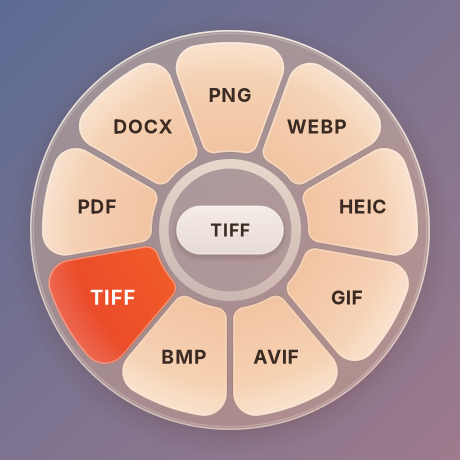
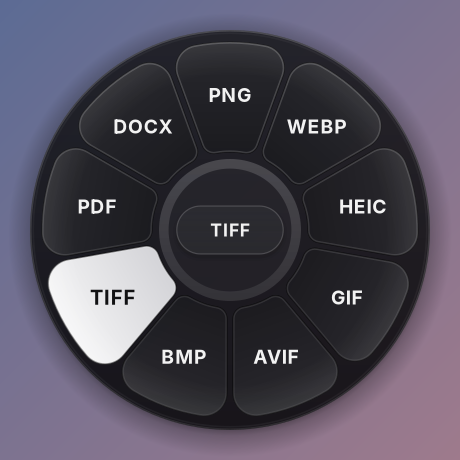
Ring: black smoked glass with monochrome hover
New default SMOKE palette (graphite petals, light labels, bright
white-grey hover, white progress arc); same layout. All ring colours
now live in Palette; RINGCONVERT_THEME=warm keeps the old look
unchanged and replaces the DARK/system option. README pictures
regenerated. Drop an unused Gdk import in the crop dialog.

diff --git a/src/ringconvert/ring_widget.py b/src/ringconvert/ring_widget.py
@@ -47,18 +47,48 @@ class Palette:
     segment_highlight: RGBA
     segment_alpha: float
     segment_edge: RGBA
+    segment_glint_top: RGBA  # bright inner hairline of a petal, top and bottom of the ring
+    segment_glint_bottom: RGBA
     text: RGBA
     hover_start: RGBA
     hover_end: RGBA
     hover_text: RGBA
+    hover_highlight: RGBA  # sheen on the hovered petal (the pulse adds to its alpha)
     hub_fill: RGBA
     hub_border: RGBA
     pill_fill: RGBA
+    pill_edge: RGBA
     pill_text: RGBA
     progress: RGBA
 
 
-# The default look: milky glass, cream-peach petals, orange-red hover.
+# The default look: black smoked glass, graphite petals, bright glass on hover.
+SMOKE = Palette(
+    disc_top=(0.08, 0.08, 0.09, 0.84),
+    disc_bottom=(0.03, 0.03, 0.04, 0.88),
+    disc_border=(1.0, 1.0, 1.0, 0.18),
+    shadow=(0.0, 0.0, 0.0, 0.45),
+    segment_top=hex_rgba("#2a2a2e"),
+    segment_bottom=hex_rgba("#1b1b1f"),
+    segment_highlight=(1.0, 1.0, 1.0, 0.08),
+    segment_alpha=0.92,
+    segment_edge=(0.0, 0.0, 0.0, 0.55),
+    segment_glint_top=(1.0, 1.0, 1.0, 0.22),
+    segment_glint_bottom=(1.0, 1.0, 1.0, 0.07),
+    text=hex_rgba("#f2f2f2"),
+    hover_start=hex_rgba("#f4f4f5"),
+    hover_end=hex_rgba("#d4d4d8"),
+    hover_text=hex_rgba("#111113"),
+    hover_highlight=(1.0, 1.0, 1.0, 0.30),
+    hub_fill=(1.0, 1.0, 1.0, 0.03),
+    hub_border=(1.0, 1.0, 1.0, 0.16),
+    pill_fill=(0.17, 0.17, 0.19, 0.92),
+    pill_edge=(1.0, 1.0, 1.0, 0.18),
+    pill_text=hex_rgba("#f2f2f2"),
+    progress=(1.0, 1.0, 1.0, 0.95),
+)
+
+# The original look (RINGCONVERT_THEME=warm): milky glass, cream-peach petals, orange-red hover.
 WARM = Palette(
     disc_top=(0.95, 0.80, 0.64, 0.40),
     disc_bottom=(0.90, 0.70, 0.55, 0.36),
@@ -69,37 +99,19 @@ WARM = Palette(
     segment_highlight=(1.0, 1.0, 1.0, 0.30),
     segment_alpha=0.95,
     segment_edge=(0.55, 0.30, 0.12, 0.22),
+    segment_glint_top=(1.0, 1.0, 1.0, 0.55),
+    segment_glint_bottom=(1.0, 1.0, 1.0, 0.25),
     text=hex_rgba("#3a2a22"),
     hover_start=hex_rgba("#e8462a"),
     hover_end=hex_rgba("#f05a28"),
     hover_text=(1.0, 1.0, 1.0, 1.0),
+    hover_highlight=(1.0, 1.0, 1.0, 0.18),
     hub_fill=(1.0, 0.96, 0.90, 0.08),
     hub_border=(1.0, 0.95, 0.88, 0.70),
     pill_fill=(1.0, 0.97, 0.94, 0.82),
+    pill_edge=(1.0, 1.0, 1.0, 0.7 * 0.82),
     pill_text=hex_rgba("#3a2a22"),
     progress=hex_rgba("#e8462a"),
-)
-
-# Dark-mode variant (opt-in via RINGCONVERT_THEME=system): same warmth, smoked glass.
-DARK = Palette(
-    disc_top=(0.20, 0.15, 0.13, 0.62),
-    disc_bottom=(0.14, 0.10, 0.09, 0.56),
-    disc_border=(1.0, 0.85, 0.75, 0.28),
-    shadow=(0.0, 0.0, 0.0, 0.40),
-    segment_top=hex_rgba("#5a4135"),
-    segment_bottom=hex_rgba("#4a342a"),
-    segment_highlight=(1.0, 0.85, 0.75, 0.22),
-    segment_alpha=0.92,
-    segment_edge=(0.0, 0.0, 0.0, 0.30),
-    text=hex_rgba("#f6d2b8"),
-    hover_start=hex_rgba("#e8462a"),
-    hover_end=hex_rgba("#f05a28"),
-    hover_text=(1.0, 1.0, 1.0, 1.0),
-    hub_fill=(1.0, 0.85, 0.75, 0.06),
-    hub_border=(1.0, 0.85, 0.75, 0.30),
-    pill_fill=(0.30, 0.22, 0.19, 0.85),
-    pill_text=hex_rgba("#f6d2b8"),
-    progress=hex_rgba("#f05a28"),
 )
 
 FONT_FAMILY = "Adwaita Sans, Cantarell, Inter, Noto Sans, sans-serif"
@@ -204,7 +216,7 @@ class RingState:
 
 
 class RingPainter:
-    def __init__(self, geometry: Geometry | None = None, palette: Palette = WARM):
+    def __init__(self, geometry: Geometry | None = None, palette: Palette = SMOKE):
         self.geo = geometry or Geometry()
         self.palette = palette
 
@@ -275,8 +287,8 @@ class RingPainter:
         cr.clip_preserve()
         cr.set_line_width(max(2.0, g.radius * 0.016))
         edge = cairo.LinearGradient(cx, cy - g.outer, cx, cy + g.outer)
-        edge.add_color_stop_rgba(0, 1, 1, 1, 0.55)
-        edge.add_color_stop_rgba(1, 1, 1, 1, 0.25)
+        edge.add_color_stop_rgba(0, *self.palette.segment_glint_top)
+        edge.add_color_stop_rgba(1, *self.palette.segment_glint_bottom)
         cr.set_source(edge)
         cr.stroke()
         cr.restore()
@@ -409,7 +421,8 @@ class RingPainter:
 
         if h > 0:
             cr.push_group()
-            self._fill_segment(cr, count, i, p.hover_start, p.hover_end, (1, 1, 1, 0.18 + 0.3 * pulse))
+            sheen = p.hover_highlight[:3] + (p.hover_highlight[3] + 0.3 * pulse,)
+            self._fill_segment(cr, count, i, p.hover_start, p.hover_end, sheen)
             cr.pop_group_to_source()
             cr.paint_with_alpha(h)
 
@@ -488,7 +501,7 @@ class RingPainter:
         sheen.add_color_stop_rgba(1, *p.pill_fill[:3], p.pill_fill[3] - 0.08)
         cr.set_source(sheen)
         cr.fill_preserve()
-        cr.set_source_rgba(1, 1, 1, 0.7 * p.pill_fill[3])
+        cr.set_source_rgba(*p.pill_edge)
         cr.set_line_width(max(1.0, g.radius * 0.006))
         cr.stroke()
         layout.set_width(int((width - height * 0.5) * Pango.SCALE))

diff --git a/tests/test_ring.py b/tests/test_ring.py
@@ -38,13 +38,12 @@ def test_gaps_belong_to_a_segment():
     assert geo.hit(*point(geo, -90 + 22.5, geo.label_radius), 8) in (0, 1)
 
 
-def test_render_hover_is_orange(tmp_path):
+def _render_pixels(tmp_path, palette):
     segs = [Segment(k, k.upper()) for k in ("png", "webp", "heic", "gif")]
     state = RingState(segments=segs, hover=[0, 1, 0, 0], readout="WEBP")
     out = tmp_path / "ring.png"
-    ring_widget.render_png(str(out), state)
+    ring_widget.render_png(str(out), state, ring_widget.RingPainter(palette=palette))
     surface = cairo.ImageSurface.create_from_png(str(out))
-    geo = Geometry()
     data, stride = surface.get_data(), surface.get_stride()
 
     def pixel(x, y):  # premultiplied BGRA
@@ -52,14 +51,40 @@ def test_render_hover_is_orange(tmp_path):
         b, g, r, a = data[i:i + 4]
         return r, g, b, a
 
-    # Inside the hovered (right-hand) petal, away from its label.
-    r, g, b, a = pixel(*point(geo, 0, geo.outer - geo.radius * 0.08))
+    geo = Geometry()
+    # Inside the hovered (right-hand) petal and a resting one, away from their labels.
+    hovered = pixel(*point(geo, 0, geo.outer - geo.radius * 0.08))
+    resting = pixel(*point(geo, 180, geo.outer - geo.radius * 0.08))
+    return hovered, resting, pixel(1, 1)
+
+
+def test_render_smoke_is_black_with_bright_hover(tmp_path):
+    hovered, resting, corner = _render_pixels(tmp_path, ring_widget.SMOKE)
+    r, g, b, a = hovered
+    assert min(r, g, b) > 200 and max(r, g, b) - min(r, g, b) < 12 and a > 240
+    r, g, b, a = resting
+    assert max(r, g, b) < 70 and max(r, g, b) - min(r, g, b) < 12 and a > 230
+    # Corners of the window stay fully transparent.
+    assert corner[3] == 0
+
+
+def test_render_warm_hover_is_orange(tmp_path):
+    hovered, resting, corner = _render_pixels(tmp_path, ring_widget.WARM)
+    r, g, b, a = hovered
     assert r > 200 and g < 120 and b < 80 and a > 240
     # A resting petal is light peach.
-    r, g, b, a = pixel(*point(geo, 180, geo.outer - geo.radius * 0.08))
+    r, g, b, a = resting
     assert r > 180 and g > 150 and b > 120
-    # Corners of the window stay fully transparent.
-    assert pixel(1, 1)[3] == 0
+    assert corner[3] == 0
+
+
+def test_default_palette_is_smoke(monkeypatch):
+    ring_window = pytest.importorskip("ringconvert.ring_window")
+    monkeypatch.delenv("RINGCONVERT_THEME", raising=False)
+    assert ring_window._palette() is ring_widget.SMOKE
+    assert ring_widget.RingPainter().palette is ring_widget.SMOKE
+    monkeypatch.setenv("RINGCONVERT_THEME", "warm")
+    assert ring_window._palette() is ring_widget.WARM
 
 
 def test_tool_icons_render(tmp_path):

diff --git a/src/ringconvert/ring_window.py b/src/ringconvert/ring_window.py
@@ -9,17 +9,16 @@ from pathlib import Path
 import cairo
 import gi
 
-gi.require_version("Adw", "1")
 gi.require_version("Gdk", "4.0")
 gi.require_version("Gtk", "4.0")
-from gi.repository import Adw, Gdk, Gio, GLib, GObject, Gtk  # noqa: E402
+from gi.repository import Gdk, Gio, GLib, GObject, Gtk  # noqa: E402
 
 from .core import compress  # noqa: E402
 from .core.detect import ALL_TOOLS, FileInfo, common_targets, common_tools, detect, label  # noqa: E402
 from .core.naming import Result  # noqa: E402
 from .debug import debug  # noqa: E402
 from .dialogs import DIALOGS  # noqa: E402
-from .ring_widget import DARK, WARM, RingPainter, RingWidget, Segment  # noqa: E402
+from .ring_widget import SMOKE, WARM, RingPainter, RingWidget, Segment  # noqa: E402
 
 # Detecting a huge selection would stall the drag; the menu only needs a sample.
 MAX_DETECT = 200
@@ -59,11 +58,10 @@ def _file_list(value) -> list[Gio.File] | None:
 
 
 def _palette():
-    # The warm look is the default even in dark mode;
-    # RINGCONVERT_THEME=system follows the desktop's light/dark preference.
-    if os.environ.get("RINGCONVERT_THEME") == "system" and Adw.StyleManager.get_default().get_dark():
-        return DARK
-    return WARM
+    # Black smoked glass in light and dark mode; RINGCONVERT_THEME=warm brings back the peach look.
+    if os.environ.get("RINGCONVERT_THEME") == "warm":
+        return WARM
+    return SMOKE
 
 
 class RingWindow(Gtk.Window):

diff --git a/src/ringconvert/dialogs/crop.py b/src/ringconvert/dialogs/crop.py
@@ -11,7 +11,7 @@ import cairo
 import gi
 
 gi.require_version("Gtk", "4.0")
-from gi.repository import Gdk, Gtk  # noqa: E402
+from gi.repository import Gtk  # noqa: E402
 
 from ..core import imageops  # noqa: E402
 from . import Segmented, ToolDialog, preview_copy, row, to_surface  # noqa: E402

diff --git a/README.md b/README.md
@@ -167,8 +167,8 @@ ringconvert --quit     # stop the background service
   AVIF loses transparency.
 - PDF to DOCX keeps the text and layout as well as pdf2docx can; scanned PDFs have no text to
   extract.
-- The ring keeps its warm colours in dark mode. `RINGCONVERT_THEME=system` switches to a darker
-  palette.
+- The ring is black smoked glass in light and dark mode. `RINGCONVERT_THEME=warm` brings back
+  the original cream-peach ring with orange hover.
 
 ## Uninstall
 
